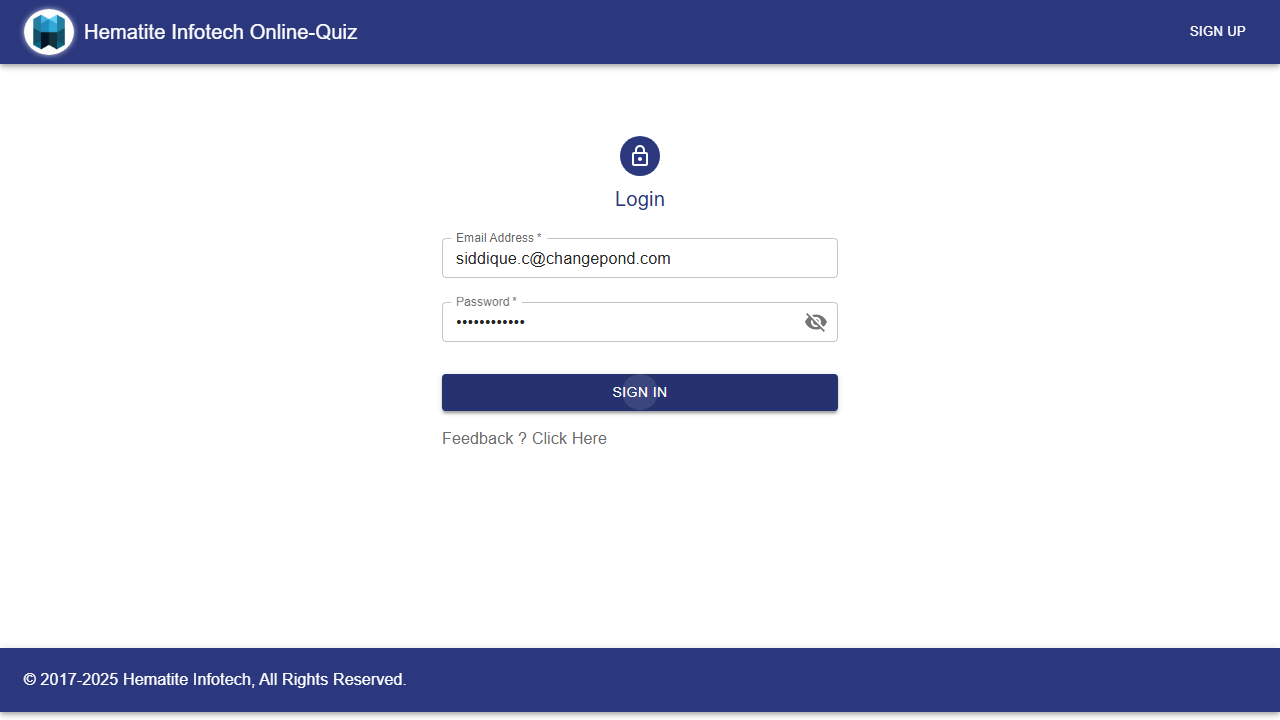
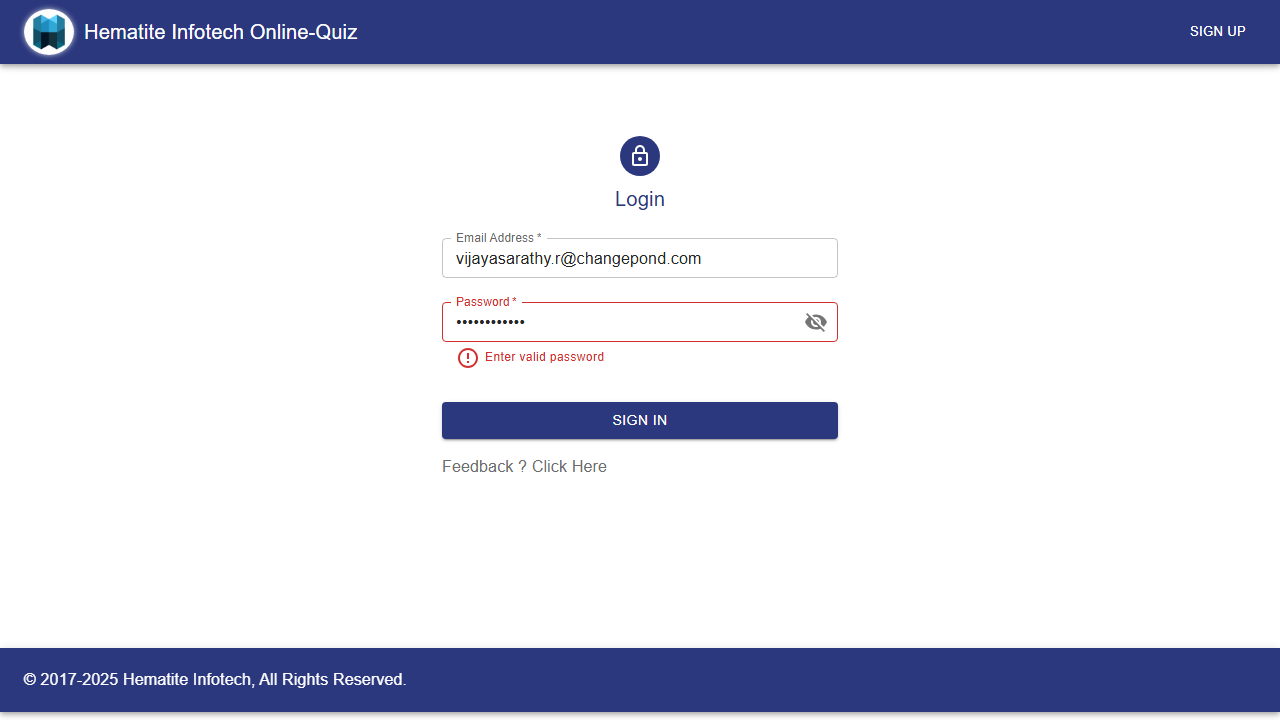
new examples

diff --git a/tests/locator.spec.ts b/tests/locator.spec.ts
@@ -1,0 +1,53 @@
+import {test,chromium,Page,Locator, Browser} from '@playwright/test';
+ 
+test("Locator",async()=>{
+    const browser:Browser = await chromium.launch({headless: false,channel:'chrome'});
+    const page:Page = await browser.newPage();
+ 
+    await page.goto("http://127.0.0.1:5500/form.html");
+ 
+    const fname:Locator = await page.locator("#txt1");
+    await fname.fill("Mohammed Siddique");
+ 
+    const password:Locator = await page.locator("#txt2");
+    await password.fill("Siddique@123");
+    // await fname.fill("vijayasarathy");
+ 
+    //use of class selector
+ 
+     const logo:Locator = await page.locator(".logo");
+     const logoExist = await logo.isEnabled();
+     console.log(logoExist);
+     const contact:Locator = await page.locator(".txtContact");
+     await contact.fill("8768678768");
+ 
+    //use of text selector
+ 
+    const heading:Locator = await page.locator("text=Registration Form");
+    const headingExit = await heading.isEnabled();
+    console.log(headingExit);
+ 
+    // use of css property tag name
+    // const email:Locator = await page.locator("#hh");
+    // await email.fill("siddique@gmail.com")
+ 
+    // use of css property tag name
+    const address:Locator = await page.locator("css=input#txtaddress");
+    await address.fill("Chennai")
+ 
+    // use of css property tag name
+    const pincode:Locator = await page.locator("css=input#txtpincode");
+    await pincode.fill("600097")
+
+    const email:Locator = await page.locator('xpath=//input[@name="myname"]');
+    await email.fill("Siddique@5257");
+
+
+    // <input type="checkbox" name="term" value="agree">
+    //         <label> I Agree your term and condition.</label> <br> <br>
+
+    const condition:Locator = await page.locator('xpath//input[@name="term"]');
+    const checkexist = await heading.isEnabled();
+    console.log(checkexist);
+ 
+});

diff --git a/tests/Browsercontext.spec.ts b/tests/Browsercontext.spec.ts
@@ -1,0 +1,45 @@
+import {test,expect,Browser, chromium,Page,BrowserContext, Locator} from '@playwright/test';
+test("testing browser context", async({page})=>{
+    const browser:Browser = await chromium.launch({headless:false,channel:"chrome"});
+    const browserContext:BrowserContext = await browser.newContext();
+    const page1:Page = await browserContext.newPage();
+
+     const browserContext_2:BrowserContext = await browser.newContext();
+    const page2:Page = await browserContext.newPage();
+     
+    await page1.goto("http://quiz.hematitecorp.com/");
+    const email:Locator = await page1.locator("#email");
+    const password:Locator = await page1.locator("#password");
+    const button:Locator = await page1.locator("[type='submit']");
+
+
+      await page2.goto("http://quiz.hematitecorp.com/");
+    const email2:Locator = await page2.locator("#email");
+    const password2:Locator = await page2.locator("#password");
+    const button2:Locator = await page2.locator("[type='submit']");
+
+    await email.fill("siddique.c@changepond.com");
+    await password.fill("Siddique@123");
+    await button.click();
+
+    await email2.fill("vijayasarathy.r@changepond.com");
+    await password2.fill("@Vijay997670");
+    await button2.click();
+
+
+    const title1 = await page1.title();
+    const title2 = await page2.title();
+    console.log("Home page title",title1);
+        console.log("Home page title",title2);
+
+        await page1.screenshot({path: 'Vouchercode1.png'});
+        
+
+    
+        expect(title1).toEqual("Quiz App");
+        expect(title2).toEqual("Quiz App");
+        await page2.screenshot({path: 'Vouchercode2.png'});
+
+      
+   
+})

diff --git a/tests/auth.spec.ts b/tests/auth.spec.ts
@@ -1,0 +1,13 @@
+import{Browser, BrowserContext, chromium, Page, test} from "@playwright/test";
+test("auth test",async()=>{
+const browser:Browser = await chromium.launch({headless:false,channel:"chrome"});
+const browserContext:BrowserContext = await browser.newContext();
+const page:Page = await browserContext.newPage();
+
+
+const userId:string = "siddique.c@changepond.com";
+const userPass:string = "Siddique@123";
+const authHeader:string = "Basic "+btoa(userId+":"+userPass);
+page.setExtraHTTPHeaders({Authorization:authHeader});
+await page.goto("http://quiz.hematitecorp.com");
+})
